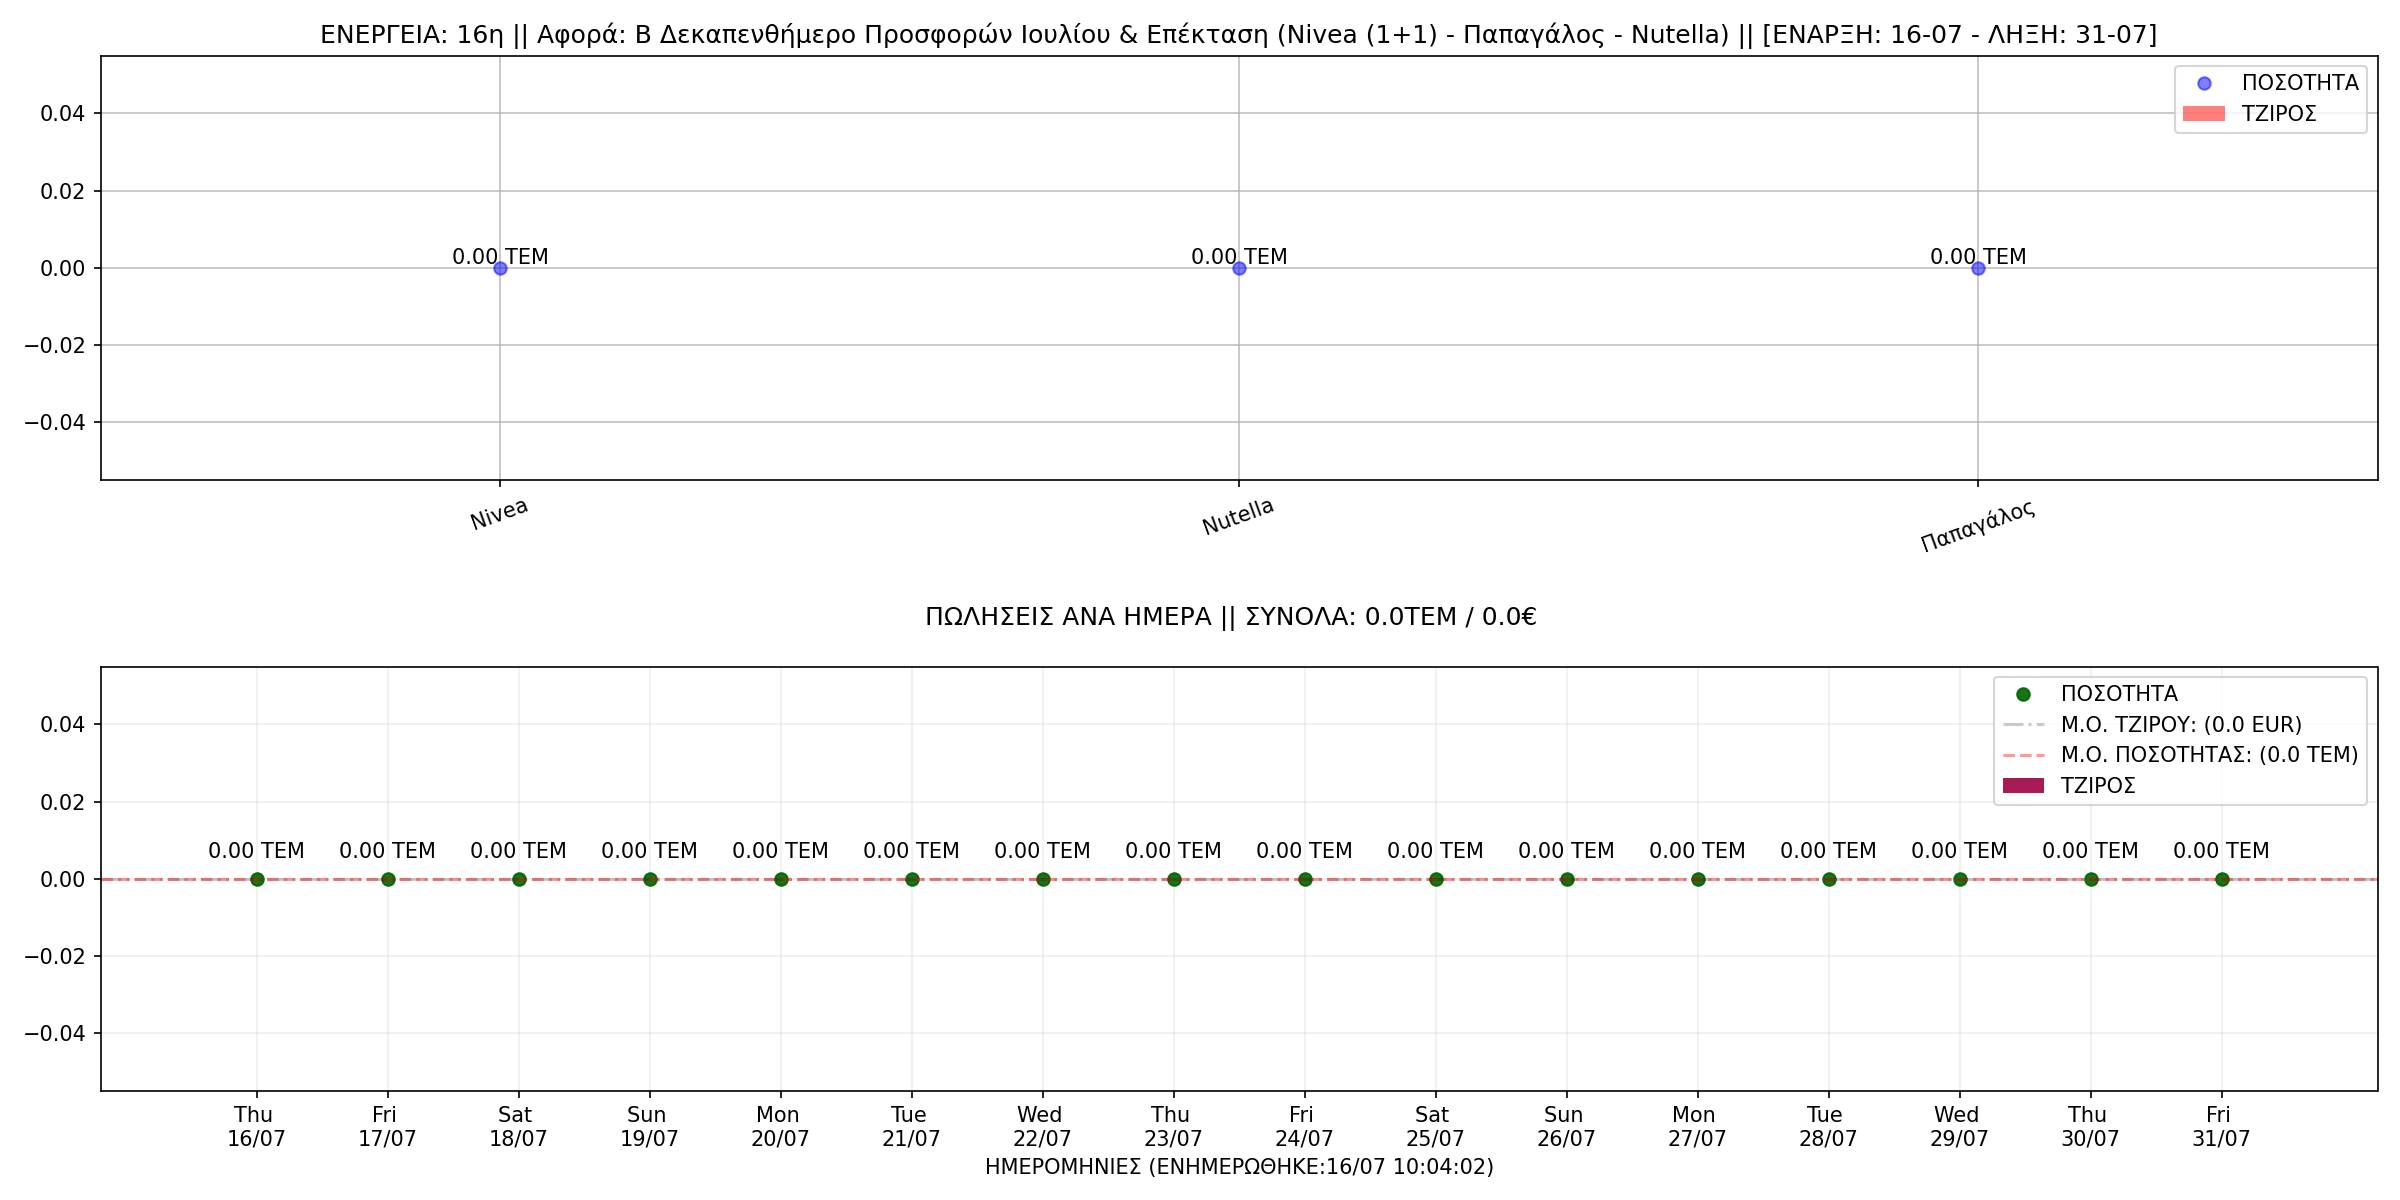
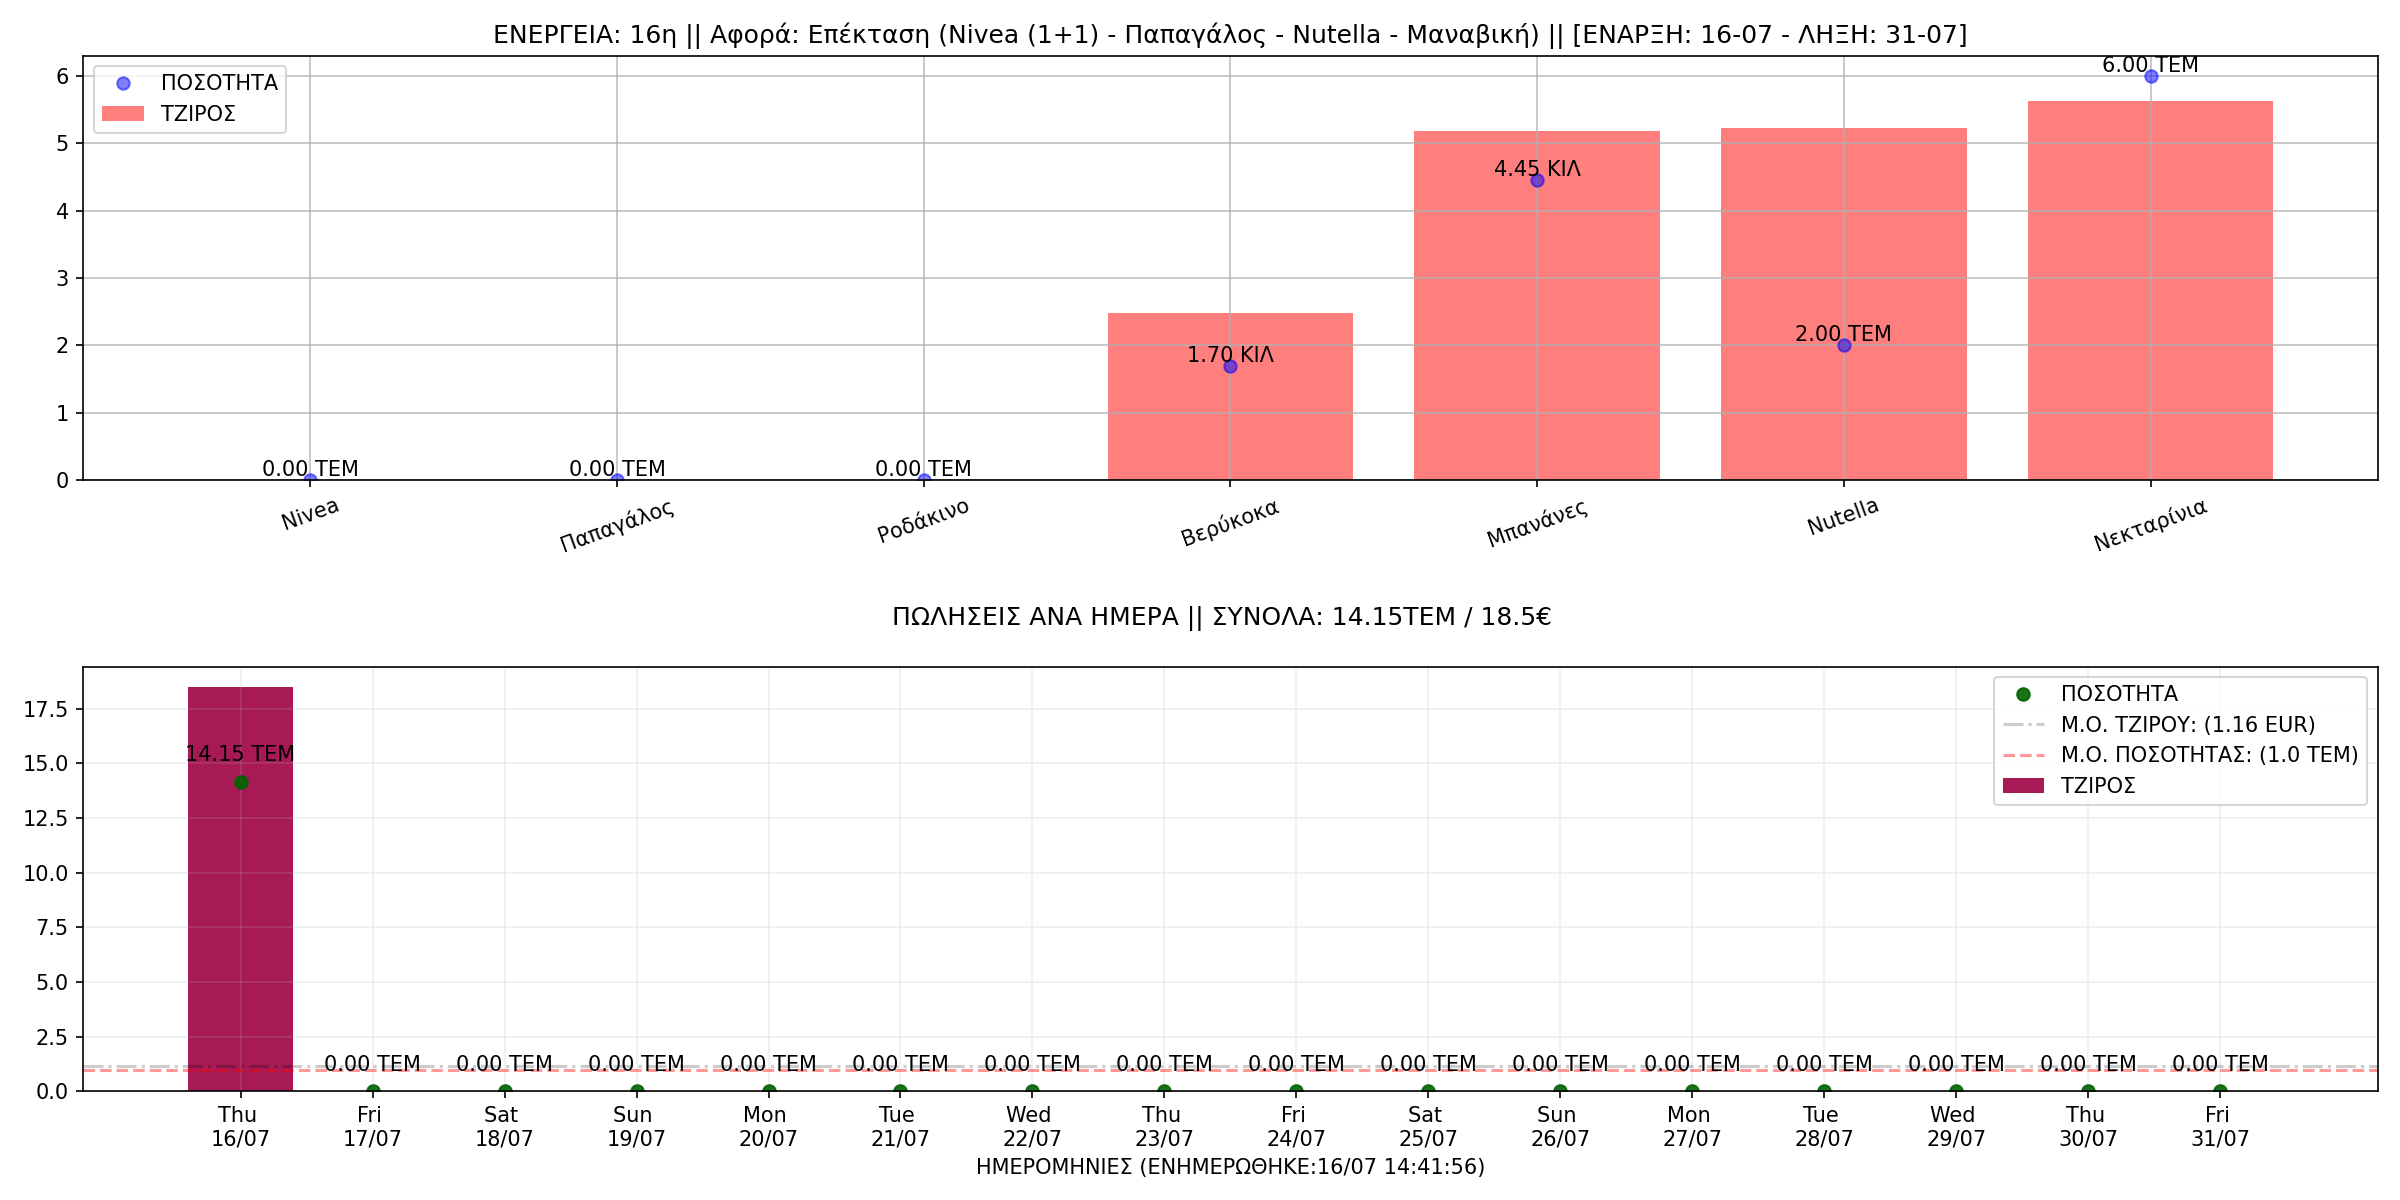
``@Ioannis E. Kommas (PyCharm Commit and Push Code Lines)``

diff --git a/A_DAILY_ΠΟΡΕΙΑ_ΤΙΜΟΚΑΤΑΛΟΓΟΥ_ΠΩΛΗΣΕΩΝ/pricelist_main_app.py b/A_DAILY_ΠΟΡΕΙΑ_ΤΙΜΟΚΑΤΑΛΟΓΟΥ_ΠΩΛΗΣΕΩΝ/pricelist_main_app.py
@@ -138,20 +138,20 @@ while True:
 
         # -------------------- TREE MAP --------------------
         # Prepare Data
-        df = brand_sales
-
-        labels = df.apply(lambda x: f'{x[0]}\n({x[1]} {"TEM" if x[1] - int(x[1]) == 0 else "ΚΙΛ"})\n({round(x[2], 2)} EUR)', axis=1)
-        sizes = df['SalesQuantity'].values.tolist()
-        colors = [plt.cm.Spectral(i / float(len(labels))) for i in range(len(labels))]
-
-        # Draw Plot
-        plt.figure(figsize=(16, 8), dpi=150)
-        squarify.plot(sizes=sizes, label=labels, color=colors, alpha=.8)
-
-        # Decorate
-        plt.title(f"ΠΩΛΗΣΕΙΣ ΠΟΣΟΤΗΤΑ || ΣΥΝΟΛΑ: {round(final_result.SalesQuantity.sum(), 2)}TEM / {round(final_result.Turnover.sum(), 2)}€  ")
-        plt.axis('off')
-        plt.savefig('tree_map_quantity.png')
+        # df = brand_sales
+        # 
+        # labels = df.apply(lambda x: f'{x[0]}\n({x[1]} {"TEM" if x[1] - int(x[1]) == 0 else "ΚΙΛ"})\n({round(x[2], 2)} EUR)', axis=1)
+        # sizes = df['SalesQuantity'].values.tolist()
+        # colors = [plt.cm.Spectral(i / float(len(labels))) for i in range(len(labels))]
+        # 
+        # # Draw Plot
+        # plt.figure(figsize=(16, 8), dpi=150)
+        # squarify.plot(sizes=sizes, label=labels, color=colors, alpha=.8)
+        # 
+        # # Decorate
+        # plt.title(f"ΠΩΛΗΣΕΙΣ ΠΟΣΟΤΗΤΑ || ΣΥΝΟΛΑ: {round(final_result.SalesQuantity.sum(), 2)}TEM / {round(final_result.Turnover.sum(), 2)}€  ")
+        # plt.axis('off')
+        # plt.savefig('tree_map_quantity.png')
         # plt.show()
 
         # -------------------- READ VERSION OF PRICELIST IN TXT --------------------

diff --git a/A_DAILY_ΠΟΡΕΙΑ_ΤΙΜΟΚΑΤΑΛΟΓΟΥ_ΠΩΛΗΣΕΩΝ/library/timokatalogos.py b/A_DAILY_ΠΟΡΕΙΑ_ΤΙΜΟΚΑΤΑΛΟΓΟΥ_ΠΩΛΗΣΕΩΝ/library/timokatalogos.py
@@ -94,7 +94,7 @@ jule_2020 = Timokatalogos(15,
 jule_2020_b = Timokatalogos(16,
                             datetime(2020, 7, 16),
                             datetime(2020, 7, 31),
-                            'Αφορά: B Δεκαπενθήμερο Προσφορών Ιουλίου & Eπέκταση (Nivea (1+1) - Παπαγάλος - Nutella)')
+                            'Αφορά: Eπέκταση (Nivea (1+1) - Παπαγάλος - Nutella - Μαναβική)')
 
 lista_2020 = [january_2020_02, nestle_2020, feb_2020, kinder_2020, xtapodi_2020, nescafe_2020, march_2020, april_2020,
               alevri_2020, may_2020, may_2020_b, nuvoleta_2020, june_2020, june_extra_2020, jule_2020, jule_2020_b]
